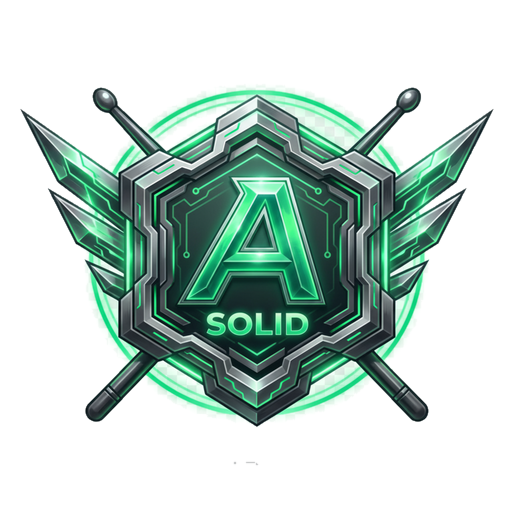
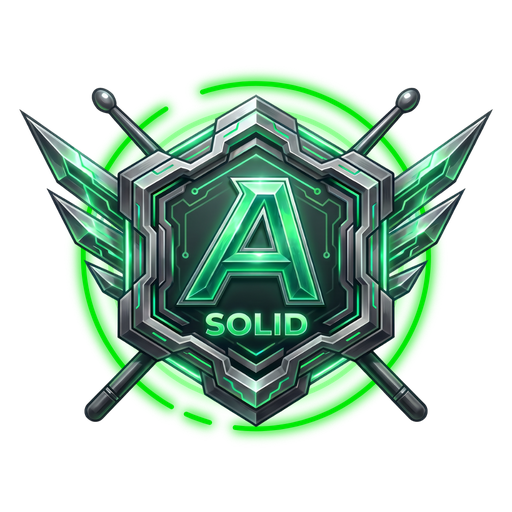
Full E..SS rank emblems (new transparent art) + trophies +15%
- Replaced A/S/SS with the new genuinely-transparent emblem art and added the
  missing E/D/C/B emblems (all resized 512, no keying needed). C is violet.
- Result screen now shows a hero emblem for every rank E..SS (was A/S/SS only);
  letter fallback retained. Bumped rank art cache key to v2 so the updated
  A/S/SS replace the old cached versions.
- Trophy grid badges enlarged another 15% (82px -> 94px).

Changed region(s): [[0.0312, 0.125, 0.9688, 0.875]]

diff --git a/roguelite.js b/roguelite.js
@@ -1416,15 +1416,12 @@ const RogueliteMode = (() => {
         '<span class="rl-n">' + n + '</span>' +
       '</div>';
     const { rank } = runResultRankPct();
-    // A/S/SS get a hero emblem PNG (rank-a/s/ss.png). If the art isn't present
-    // yet, onerror swaps the <img> back to the plain glowing letter — so this is
-    // safe to ship before the art lands, and the art auto-appears once added.
-    const hasArt = (rank === 'A' || rank === 'S' || rank === 'SS');
-    const rankCell = hasArt
-      ? '<span class="rogue-result-rank ' + rankClass(rank) + ' has-art" data-rank="' + rank + '">' +
-          '<img class="rank-art" src="rank-' + rank.toLowerCase() + '.png?v=1" alt="Rank ' + rank + '" ' +
-          'onerror="var p=this.parentNode;p.classList.remove(\'has-art\');p.textContent=\'' + rank + '\';"></span>'
-      : '<span class="rogue-result-rank ' + rankClass(rank) + '" data-rank="' + rank + '">' + rank + '</span>';
+    // Every rank E..SS has a hero emblem PNG (rank-<x>.png). If the art is ever
+    // missing, onerror swaps the <img> back to the plain glowing letter.
+    const rankCell =
+      '<span class="rogue-result-rank ' + rankClass(rank) + ' has-art" data-rank="' + rank + '">' +
+        '<img class="rank-art" src="rank-' + rank.toLowerCase() + '.png?v=2" alt="Rank ' + rank + '" ' +
+        'onerror="var p=this.parentNode;p.classList.remove(\'has-art\');p.textContent=\'' + rank + '\';"></span>';
     return '<div class="rogue-result">' +
         row('rogue-good', 'Good', t.good) +
         row('rogue-drag', 'Neutral', t.neutral, split) +

diff --git a/index.html b/index.html
@@ -9,7 +9,7 @@
   <link rel="preconnect" href="https://fonts.googleapis.com">
   <link rel="preconnect" href="https://fonts.gstatic.com" crossorigin>
   <link href="https://fonts.googleapis.com/css2?family=Orbitron:wght@700;900&family=Rajdhani:wght@500;600;700&display=swap" rel="stylesheet">
-  <link rel="stylesheet" href="style.css?v=20260603p">
+  <link rel="stylesheet" href="style.css?v=20260603q">
   <script>
     // Early error catcher — must be in <head> to catch script load errors
     (function() {
@@ -385,7 +385,7 @@
   <script defer src="app.js?v=20260603b"></script>
   <script defer src="audio-input.js?v=4"></script>
   <script defer src="achievements.js?v=5"></script>
-  <script defer src="roguelite.js?v=20260603r"></script>
+  <script defer src="roguelite.js?v=20260603s"></script>
   <!-- Cloud: Supabase client (Google sign-in + run saving). Optional — the game
        works fully without it; signing in just logs progress + leaderboard. -->
   <script defer src="https://cdn.jsdelivr.net/npm/@supabase/supabase-js@2"></script>

diff --git a/style.css b/style.css
@@ -1726,7 +1726,7 @@ body.rogue-run .rogue-section { display: none !important; }
 /* Hexagon badge */
 .trophy-badge {
   position: relative;
-  width: 82px; height: 82px;
+  width: 94px; height: 94px;
   display: flex; align-items: center; justify-content: center;
   clip-path: polygon(50% 0%, 100% 25%, 100% 75%, 50% 100%, 0% 75%, 0% 25%);
   background: linear-gradient(145deg, #1a2636 0%, #0a1220 100%);
@@ -1738,7 +1738,7 @@ body.rogue-run .rogue-section { display: none !important; }
   background: linear-gradient(150deg, rgba(255,255,255,0.45) 0%, rgba(255,255,255,0) 42%);
   clip-path: inherit; pointer-events: none;
 }
-.trophy-icon { font-size: 2.4rem; line-height: 1; filter: drop-shadow(0 1px 1px rgba(0,0,0,0.5)); }
+.trophy-icon { font-size: 2.75rem; line-height: 1; filter: drop-shadow(0 1px 1px rgba(0,0,0,0.5)); }
 .trophy.locked .trophy-icon { filter: grayscale(1) brightness(0.6); opacity: 0.5; }
 .trophy-lock {
   position: absolute; right: -2px; bottom: -2px; font-size: 0.85rem;

diff --git a/preview-reveal.html b/preview-reveal.html
@@ -128,7 +128,7 @@
 
     function rankCell(rank) {
       return '<span class="rogue-result-rank rank-' + rank.toLowerCase() + ' has-art" data-rank="' + rank + '">' +
-        '<img class="rank-art" src="rank-' + rank.toLowerCase() + '.png?v=1" alt="Rank ' + rank + '" ' +
+        '<img class="rank-art" src="rank-' + rank.toLowerCase() + '.png?v=2" alt="Rank ' + rank + '" ' +
         'onerror="var p=this.parentNode;p.classList.remove(\'has-art\');p.textContent=\'' + rank + '\';"></span>';
     }
     function resultHTML(rank) {

diff --git a/stats.html b/stats.html
@@ -9,7 +9,7 @@
   <link rel="preconnect" href="https://fonts.googleapis.com">
   <link rel="preconnect" href="https://fonts.gstatic.com" crossorigin>
   <link href="https://fonts.googleapis.com/css2?family=Orbitron:wght@700;900&family=Rajdhani:wght@500;600;700&display=swap" rel="stylesheet">
-  <link rel="stylesheet" href="style.css?v=20260603p">
+  <link rel="stylesheet" href="style.css?v=20260603q">
 </head>
 <body>
   <div class="app-container">
